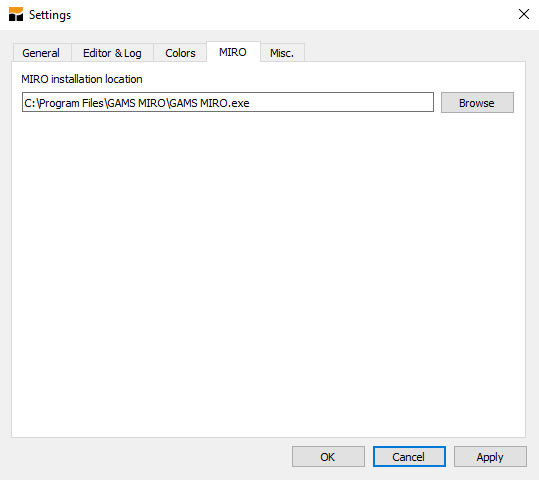
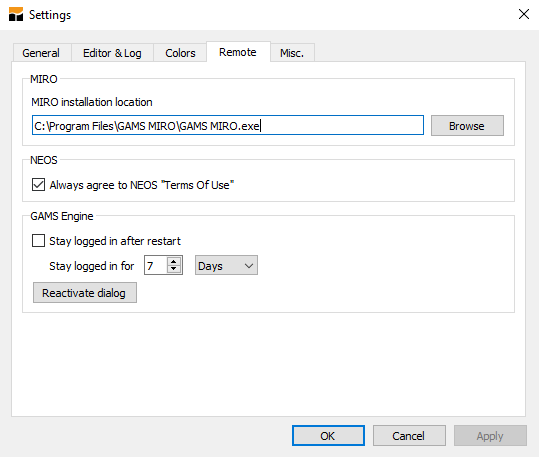
[Documentation] Re-name Studio settings tab 'MIRO' to 'Remote'; Add info about Studio bug on MacOS (MIRO location);

diff --git a/doc/start.html b/doc/start.html
@@ -111,9 +111,9 @@
                     <p>
                       First of all you should make sure that GAMS and MIRO know
                       about each other. If you work with GAMS Studio, then go to
-                      <i>File</i> &rarr; <i>Settings</i> &rarr; <i>MIRO</i> and
-                      check whether the MIRO installation location is correct,
-                      e.g.:
+                      <i>File</i> &rarr; <i>Settings</i> &rarr;
+                      <i>Remote</i> and check whether the MIRO installation
+                      location is correct, e.g.:
                     </p>
                     <div
                       class="section-block"
@@ -125,6 +125,28 @@
                         src="assets/images/studio/miro_path.png"
                         alt="MIRO installation location"
                       />
+                    </div>
+                    <div class="callout-block callout-warning">
+                      <div class="icon-holder">
+                        <i class="fas fa-info-circle"></i>
+                      </div>
+                      <!--//icon-holder-->
+                      <div class="content">
+                        <b class="callout-title">Note:</b>
+                        <p>
+                          In GAMS Studio v1.7.3 or earlier there is a bug in
+                          specifying the MIRO location on MacOS. If you use this
+                          version, make sure that the path does not stop at
+                          <kbd>/Applications/GAMS MIRO.app</kbd>, but points to
+                          the executable inside the AppImage:
+                          <kbd
+                            >/Applications/GAMS MIRO.app/Contents/MacOS/GAMS
+                            MIRO</kbd
+                          >. The <kbd>/Contents/MacOS/GAMS MIRO</kbd> part is
+                          always the same.
+                        </p>
+                      </div>
+                      <!--//content-->
                     </div>
                     <p>
                       On the MIRO side, open MIRO and go to

diff --git a/doc/studio.html b/doc/studio.html
@@ -118,7 +118,7 @@
                     <p>
                       After installing GAMS MIRO, make sure that Studio and MIRO
                       know about each other. In Studio go to <i>File</i> &rarr;
-                      <i>Settings</i> &rarr; <i>MIRO</i> and check whether the
+                      <i>Settings</i> &rarr; <i>Remote</i> and check whether the
                       MIRO installation location is correct:
                     </p>
                     <div
@@ -131,6 +131,28 @@
                         src="assets/images/studio/miro_path.png"
                         alt="MIRO installation location"
                       />
+                    </div>
+                    <div class="callout-block callout-warning">
+                      <div class="icon-holder">
+                        <i class="fas fa-info-circle"></i>
+                      </div>
+                      <!--//icon-holder-->
+                      <div class="content">
+                        <b class="callout-title">Note:</b>
+                        <p>
+                          In GAMS Studio v1.7.3 or earlier there is a bug in
+                          specifying the MIRO location on MacOS. If you use this
+                          version, make sure that the path does not stop at
+                          <kbd>/Applications/GAMS MIRO.app</kbd>, but points to
+                          the executable inside the AppImage:
+                          <kbd
+                            >/Applications/GAMS MIRO.app/Contents/MacOS/GAMS
+                            MIRO</kbd
+                          >. The <kbd>/Contents/MacOS/GAMS MIRO</kbd> part is
+                          always the same.
+                        </p>
+                      </div>
+                      <!--//content-->
                     </div>
                   </div>
                   <div id="studio-main-file" class="section-block">
